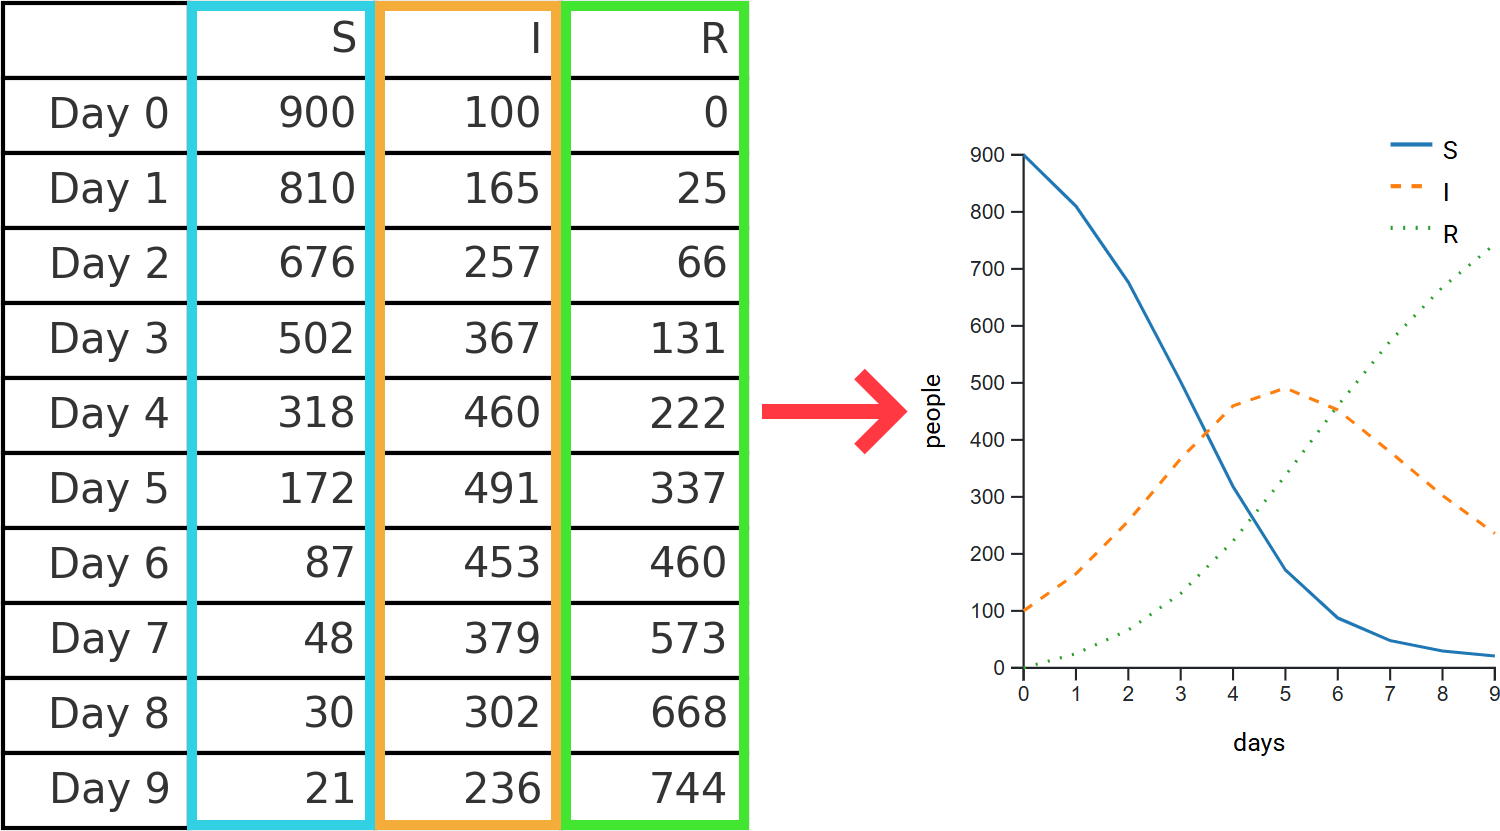
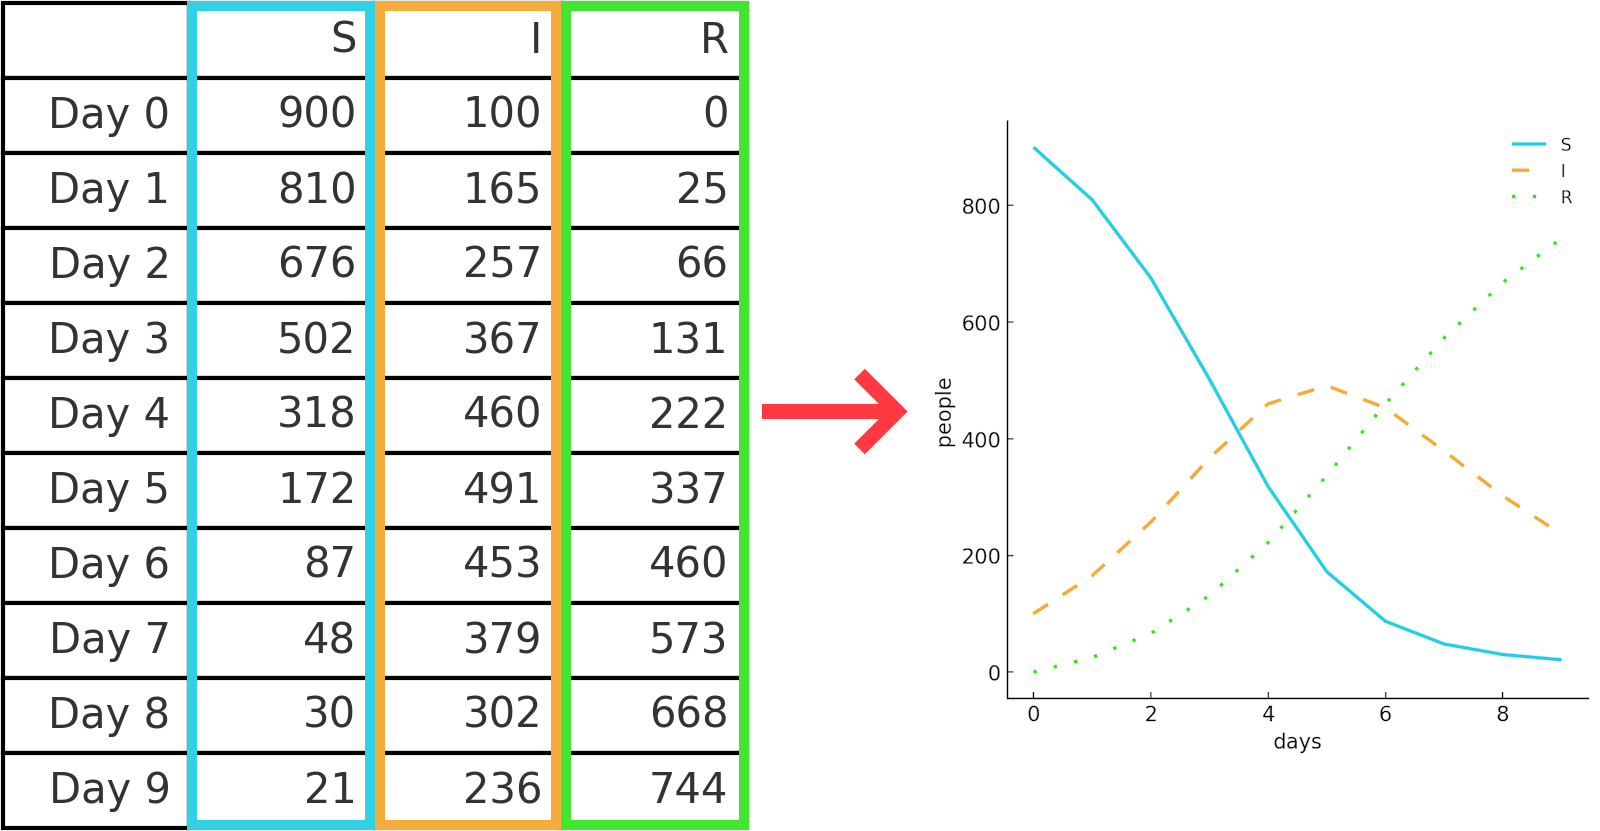
chnaged sir plot colors to match box metaphor colors

diff --git a/app/frontend/infection-visualizer/src/app/component/multiline-plot/multiline-plot.component.ts b/app/frontend/infection-visualizer/src/app/component/multiline-plot/multiline-plot.component.ts
@@ -22,7 +22,7 @@ export class MultilinePlotComponent implements OnInit, OnChanges {
   @Input() vertLine: number | null = null;
   @Input() xMaxFixed: number | null = null;
   @Input() yMaxFixed: number | null = null;
-  @Input() lineStyles: LineStyle[] | null = [["", "#1f77b4"], ["5, 5", "#ff7f0e"], ["1, 5", "#2ca02c"]];
+  @Input() lineStyles: LineStyle[] | null = [["", "#31D1E3"], ["5, 5", "#F4AD3A"], ["1, 5", "#42E630"]];
 
   temps1: [number, number][] = [
     [0, 12], [1, 11], [2, 11], [3, 10],
